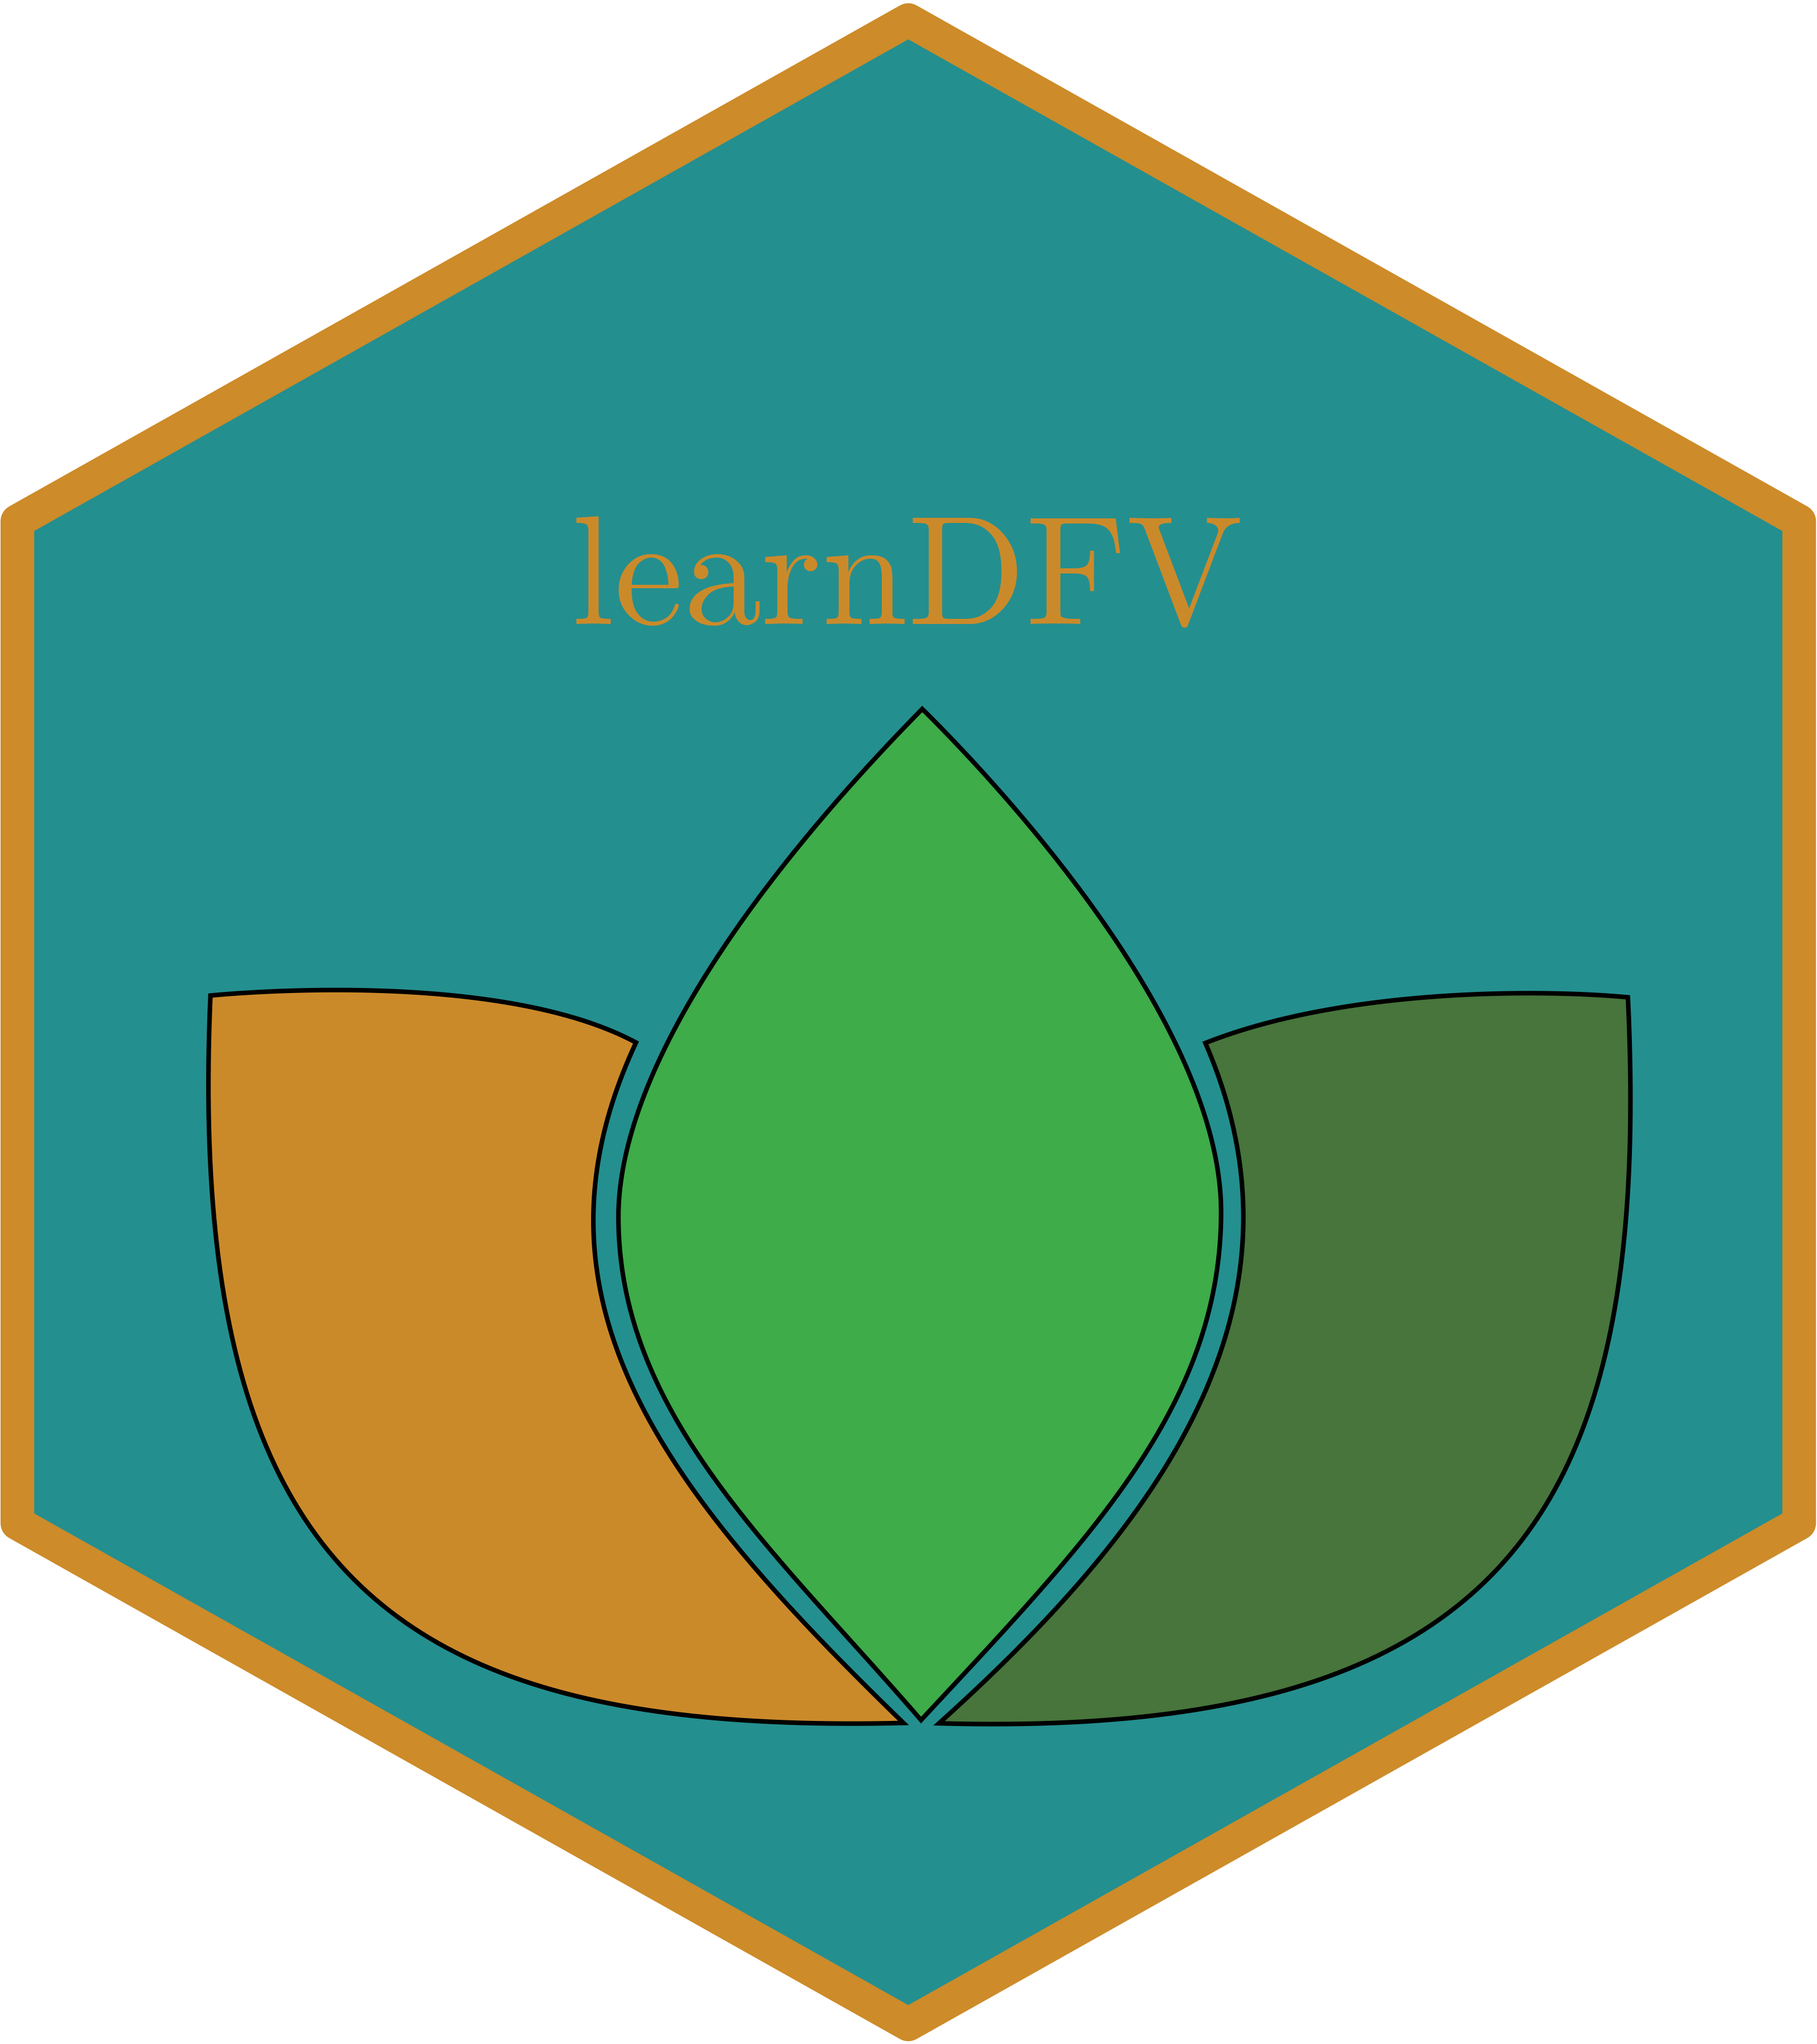
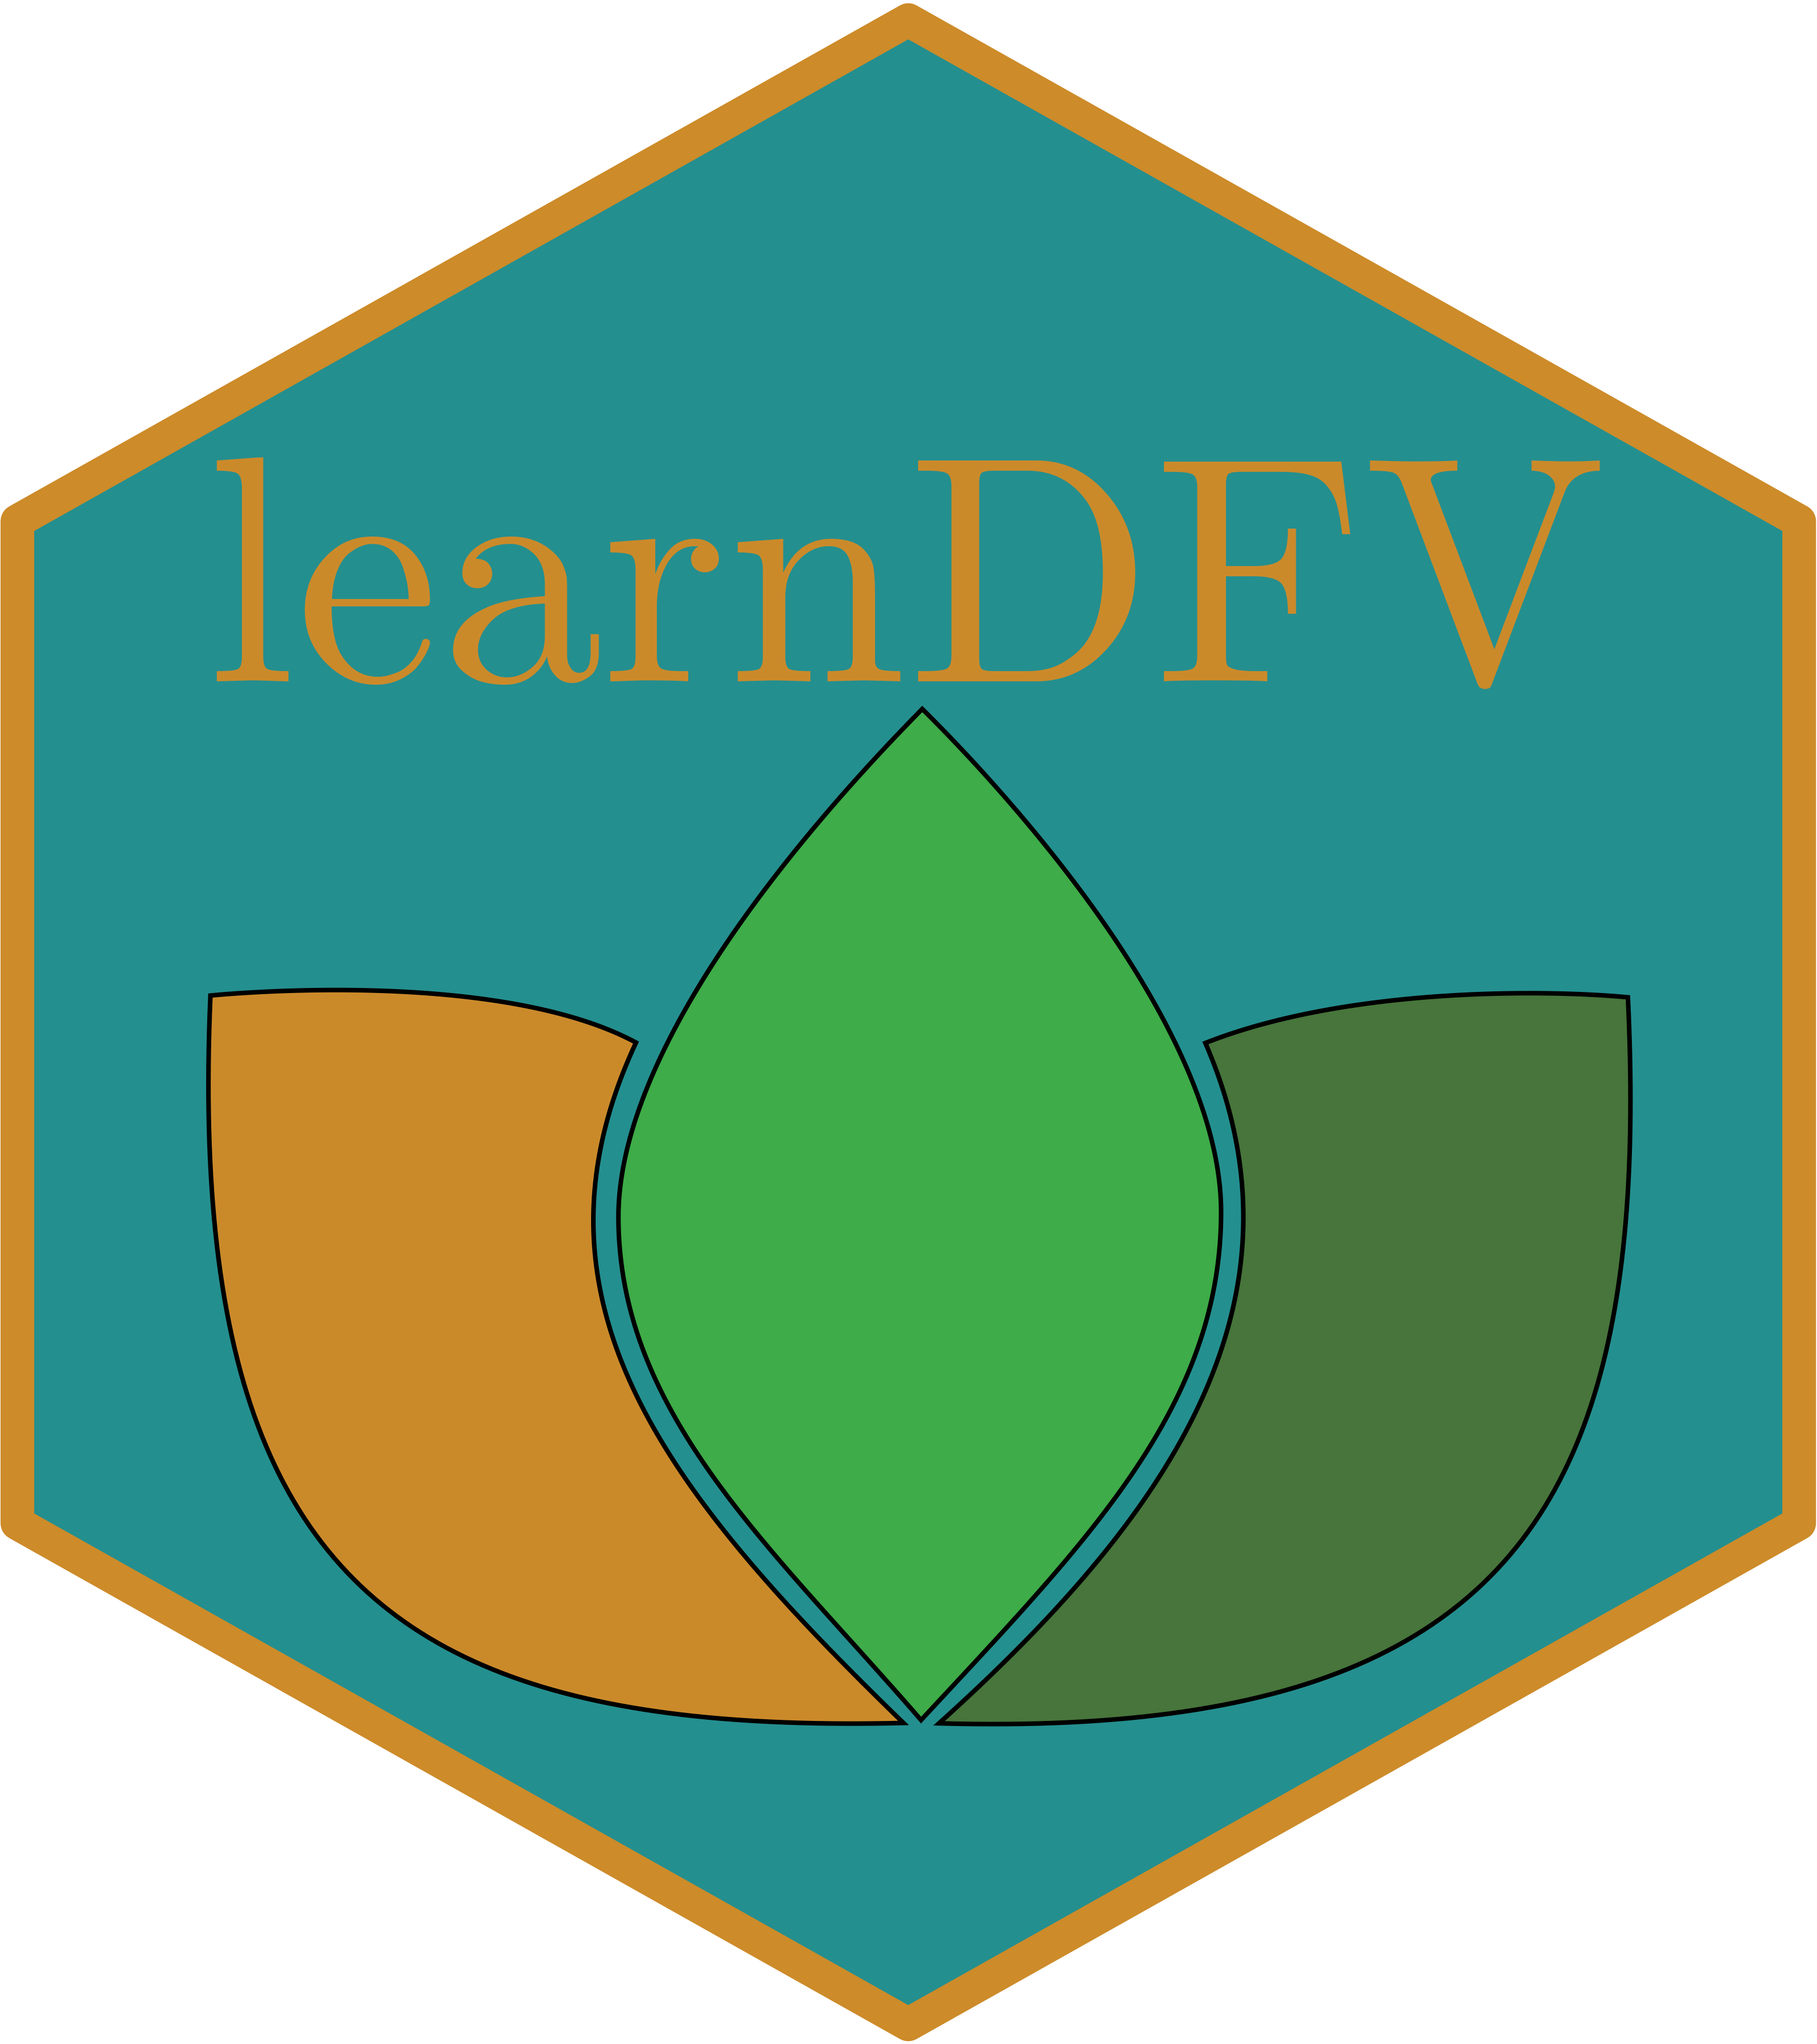
larger font in sticker

Changed region(s): [[0.125, 0.2178, 0.8438, 0.3422], [0.8438, 0.2178, 0.875, 0.28]]

diff --git a/README.md b/README.md
@@ -29,7 +29,7 @@ Table of Contents
 
 <center>
 
-<img src="https://github.com/asgersvenning/Dansk-Flora-App/blob/7e1e76d32a19635dcc2a007430eac904a7e9bb57/readme_files/learnDFV_Sticker.png?raw=true" width="250px">
+<img src="https://raw.githubusercontent.com/asgersvenning/Dansk-Flora-App/GitHub/readme_files/learnDFV_Sticker.png" width="250px">
 
 </center>
 
